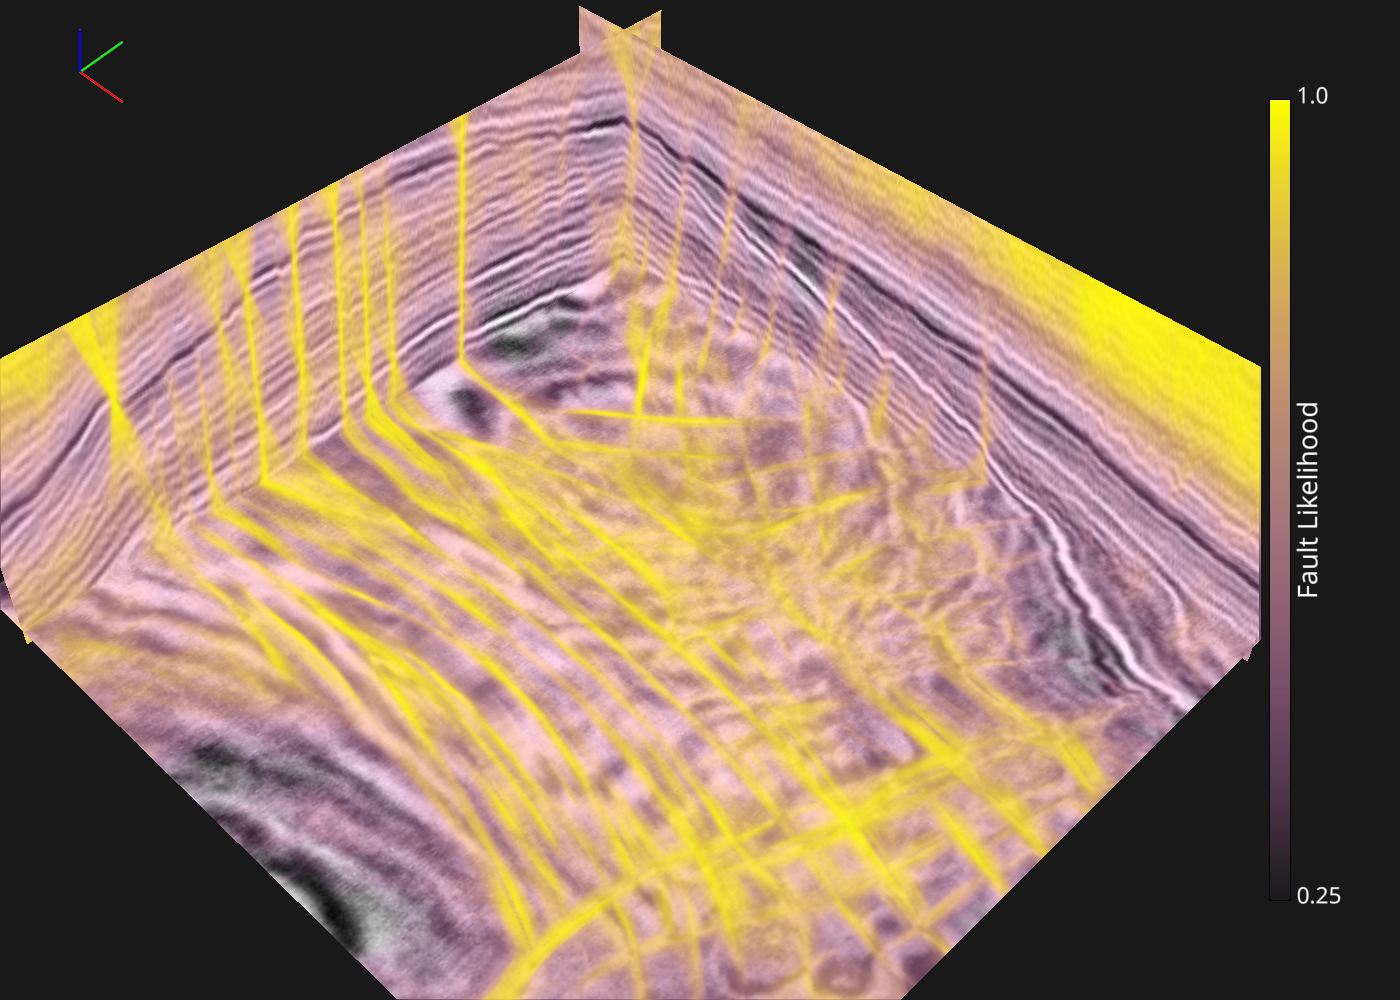
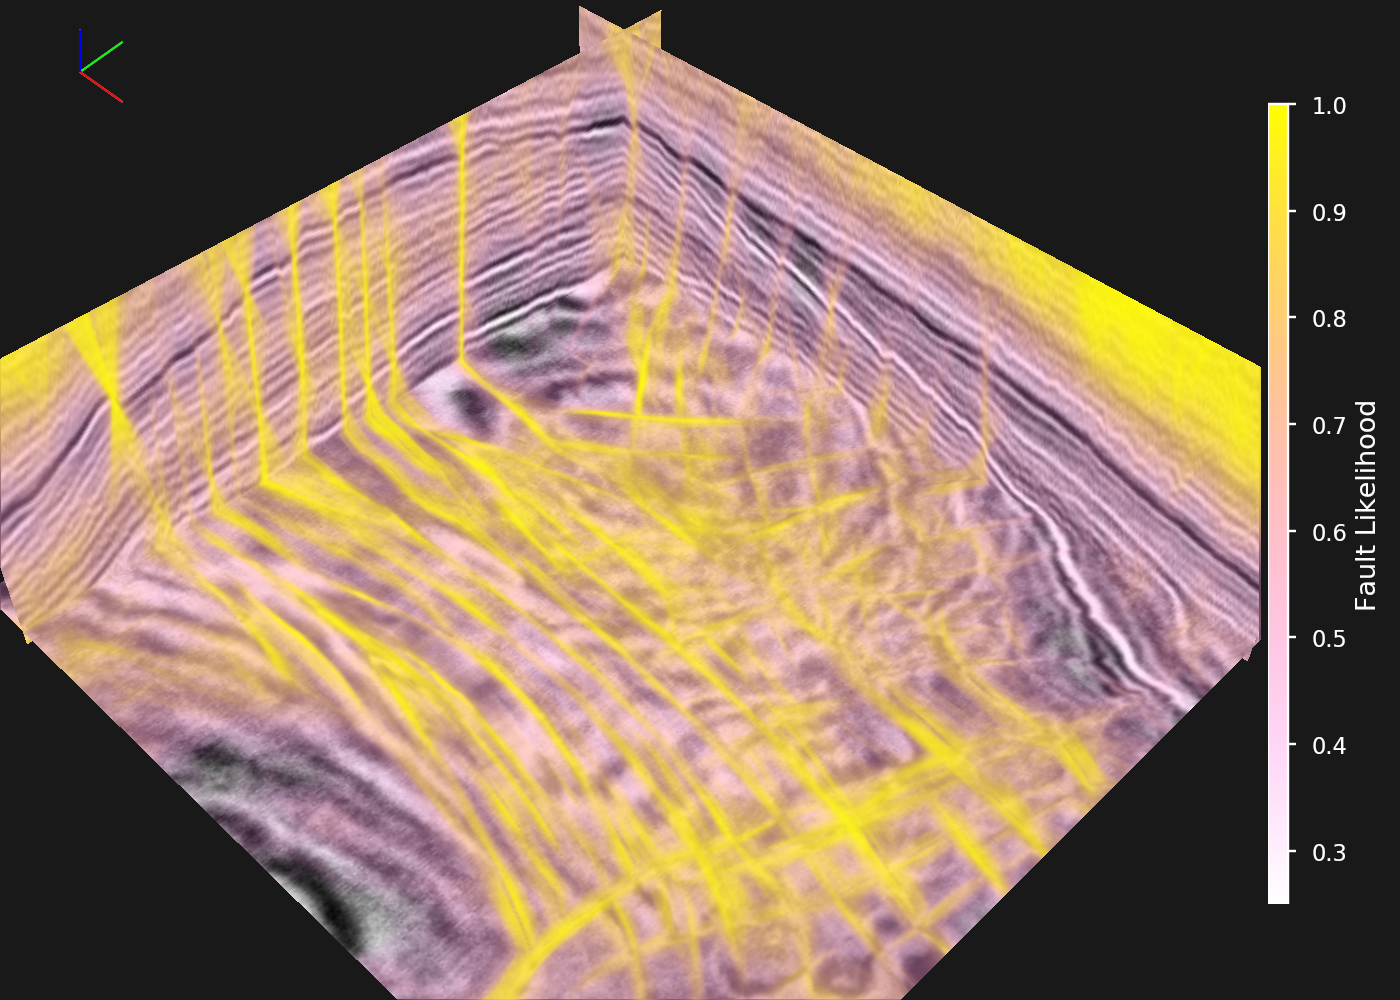
Update README for well log feature and MPL colorbar feature.

Changed region(s): [[0.8907, 0.093, 0.9829, 0.899]]

diff --git a/osv_F3_demo.py b/osv_F3_demo.py
@@ -162,6 +162,7 @@ if __name__ == '__main__':
   well_log_colors = np.array([cmap.map(x) for x in values]).squeeze()
   well_log = Markers(pos=well_log_coords, symbol='hbar', size=15,
     face_color=well_log_colors, edge_width=0)
+  well_log.set_gl_state(depth_test=False)
   visual_nodes.append(well_log)
 
   canvas4 = SeismicCanvas(title='Voting Scores',

diff --git a/README.md b/README.md
@@ -50,10 +50,15 @@ You can install them through
 pip install numpy vispy
 ```
 
-The **vispy** library also depends on one of these backends to display a window on your OS: PyQt4/PySide, PyQt5/PySide2, glfw, pyglet, SDL, or wx.
-We recommend PyQt5 as it is the easiest to install and most compatible on different platforms.
+The vispy library also depends on one of these backends to display a window on your OS: PyQt4/PySide, PyQt5/PySide2, glfw, pyglet, SDL, or wx.
+We recommend **PyQt5** as it is the easiest to install and most compatible on different platforms.
 ```
 pip install PyQt5
+```
+
+It is also recommended to install **PyOpenGL** and **matplotlib**; they are optinal libraries that can enhance the visualization in various ways. For example, **PyOpenGL** allows for nice antialiased 3D line objects, and **matplotlib** helps render a much more useful colorbar than the vispy stock colorbar object.
+```
+pip install PyOpenGL matplotlib
 ```
 
 Demo
@@ -68,6 +73,7 @@ Also try [`osv_F3_demo.py`](./osv_F3_demo.py) to check out the results from this
 <img src='./imgs/Planarity.png' alt='Planarity' width=640/>
 <img src='./imgs/Fault Semblance.png' alt='Fault Semblance' width=640/>
 <img src='./imgs/Fault Strike Angle.png' alt='Fault Strike Angle' width=640/>
+Using 2D markers to visualize a randomly generated well logs.
 <img src='./imgs/Voting Scores.png' alt='Voting Scores' width=640/>
 Using triangle mesh surfaces to visualize `FaultSkin`s.
 <img src='./imgs/Fault Surfaces.png' alt='Fault Surfaces' width=640/>
@@ -76,6 +82,6 @@ A dark themed example with a z-axis-up axis legend:
 
 To-Do List
 -------
-- [ ] Well log visualization
-- [ ] Replace current colorbar with Matplotlib rendered colorbar
+- [x] Well log visualization
+- [x] Replace current colorbar with Matplotlib rendered colorbar
 - [ ] Draw lines where slice planes intersect
